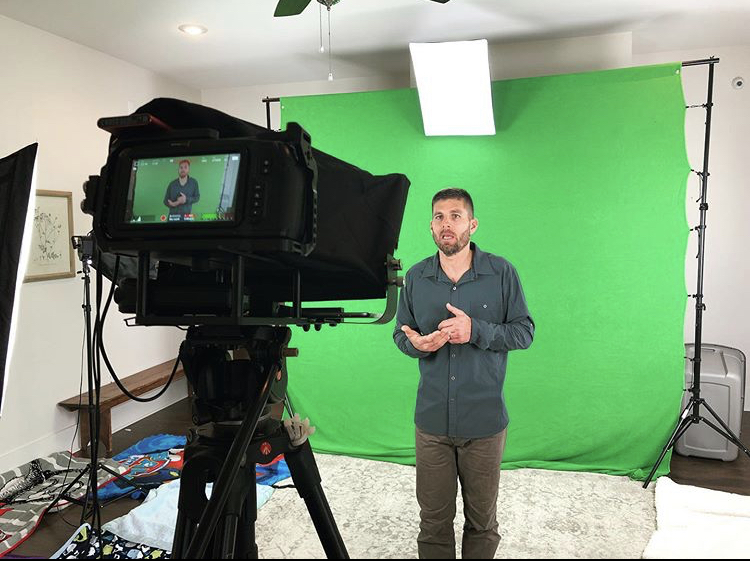
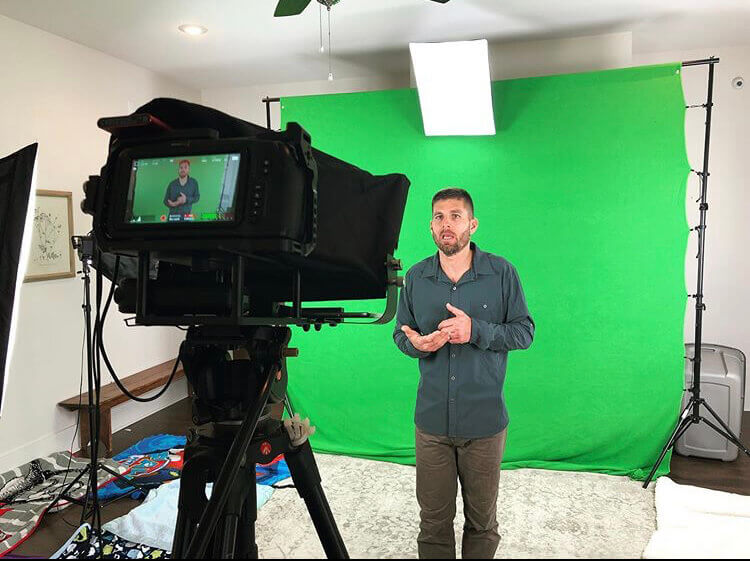
optimized photos

diff --git a/routes/routes.js b/routes/routes.js
@@ -28,7 +28,7 @@ const nodemailer = require("nodemailer");
     transporter.sendMail({
     from: email, 
     to: '<lareaufilms@gmail.com>',
-    subject: "From www.lareaufilms.com: " + userName + 'wants to talk', // Subject line
+    subject: "From www.lareaufilms.com: " + userName + ' wants to talk.', // Subject line
     text: emailBody, 
   }); 
 
